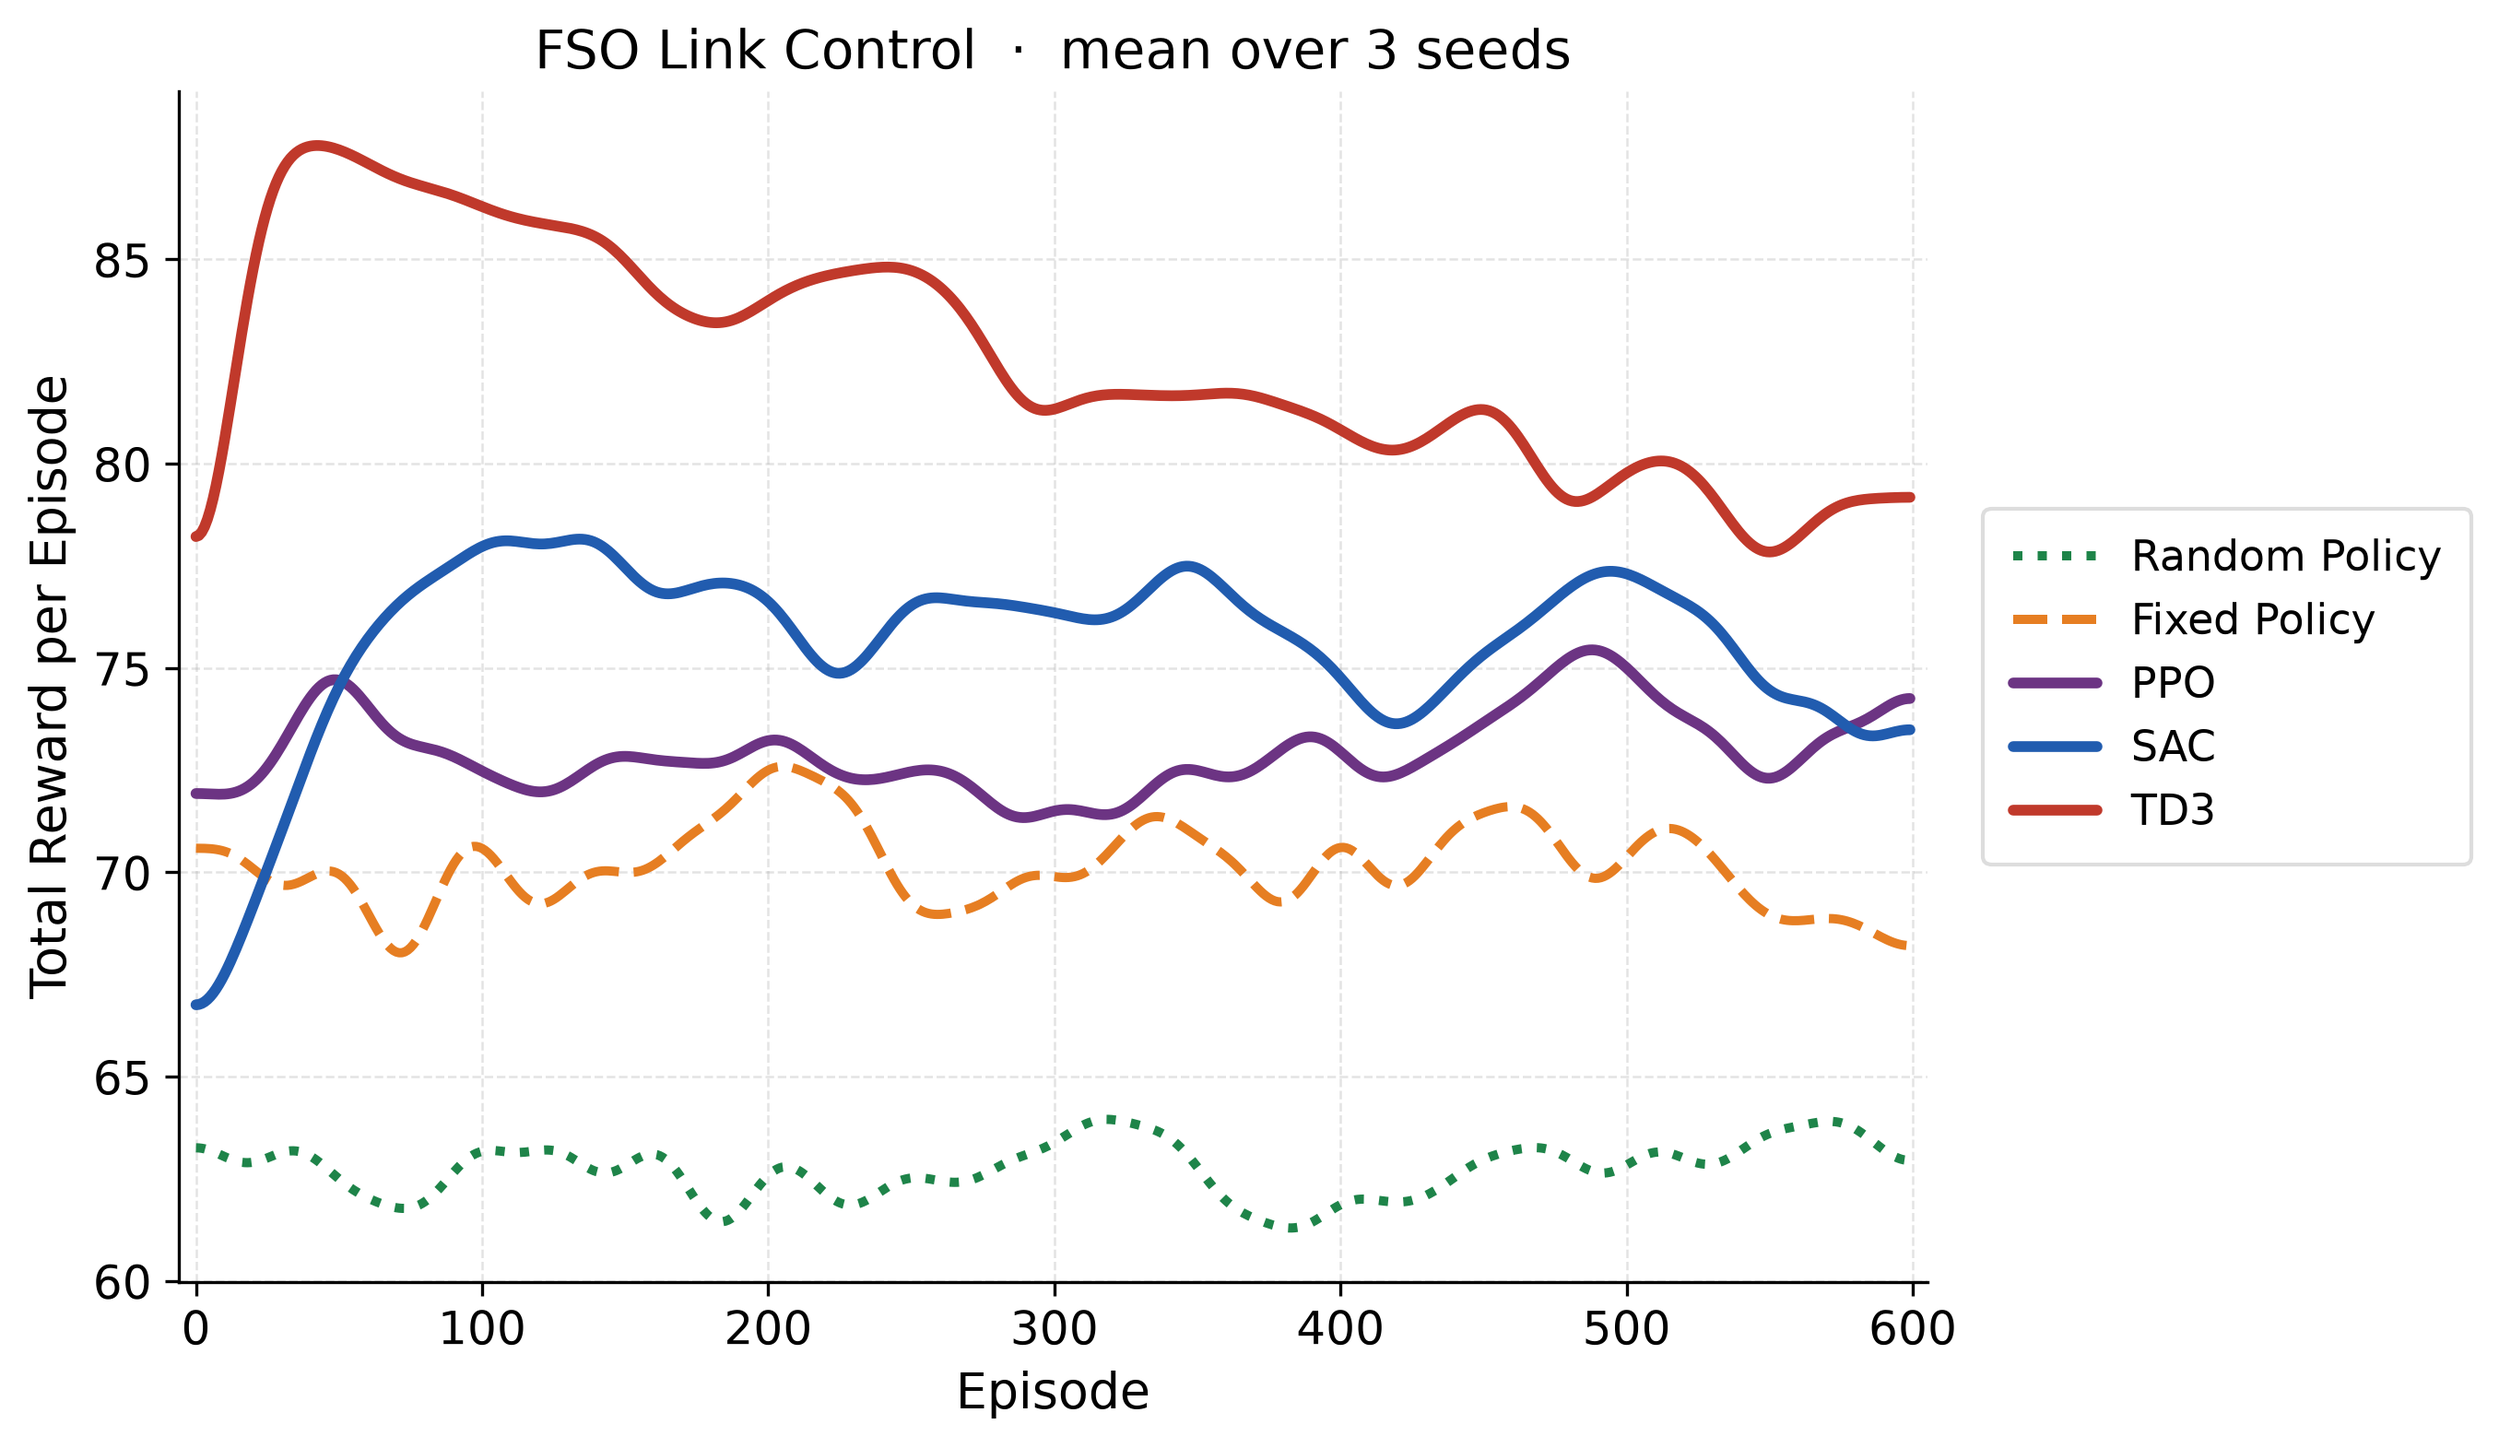
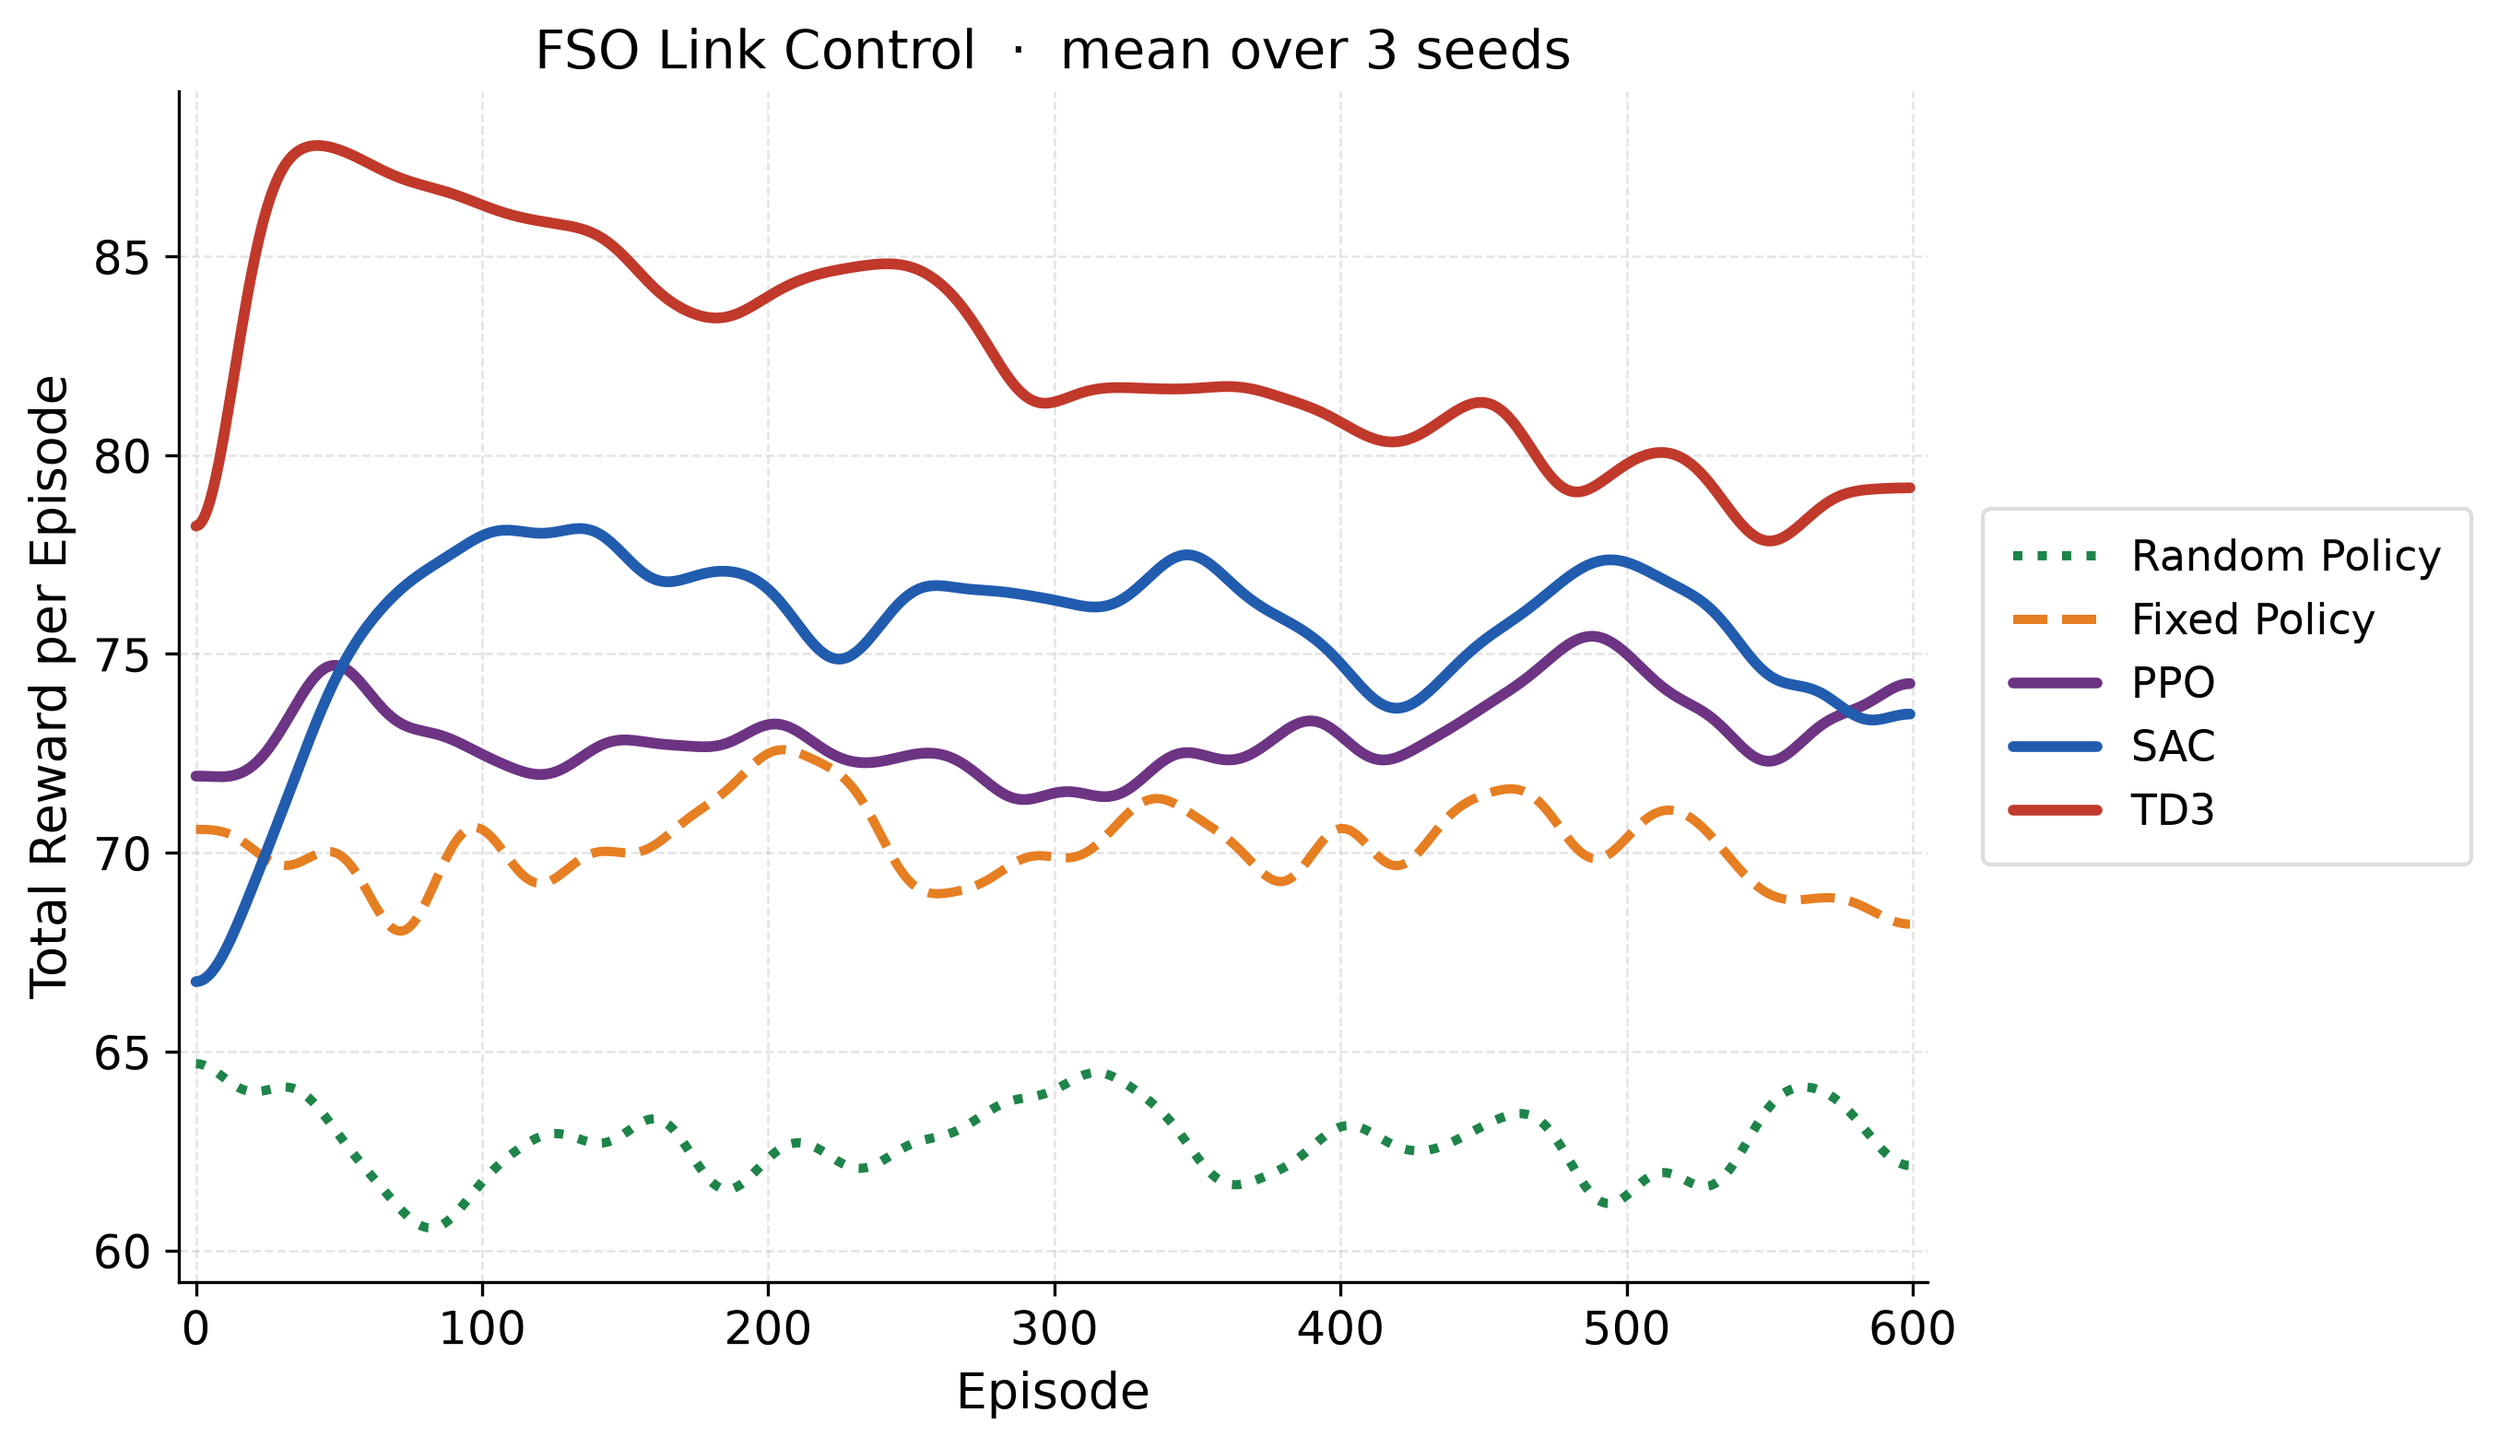
Record the repeated 600-episode comparison.
The learner curves match the previous log. The random baseline shifted slightly, so the documented last-50 mean is 63.19.

diff --git a/PAPER_REVISIONS.md b/PAPER_REVISIONS.md
@@ -6,7 +6,7 @@ The logged curves are training-episode returns, averaged over 3 seeds (100, 101,
 
 ## Abstract
 
-We study continuous control of a 3 km free-space optical link, in which the agent sets transmit power and launch beam waist while visibility and the refractive-index structure constant drift within each 80-step episode. SAC, PPO, and TD3 are trained for 600 episodes on three seeds with Stable-Baselines3. Reported values are training-episode returns, averaged over those seeds, not a held-out greedy test. Over the last 50 episodes the means are 78.76 for TD3, 73.64 for SAC, and 73.48 for PPO, compared with 68.31 for a fixed action of 10 dBm and 0.02 m and 63.29 for a uniform random policy. TD3 is the highest of the three learners. The margin over the fixed policy is modest, about ten return points, and SAC and PPO finish only a few points above that baseline.
+We study continuous control of a 3 km free-space optical link, in which the agent sets transmit power and launch beam waist while visibility and the refractive-index structure constant drift within each 80-step episode. SAC, PPO, and TD3 are trained for 600 episodes on three seeds with Stable-Baselines3. Reported values are training-episode returns, averaged over those seeds, not a held-out greedy test. Over the last 50 episodes the means are 78.76 for TD3, 73.64 for SAC, and 73.48 for PPO, compared with 68.31 for a fixed action of 10 dBm and 0.02 m and 63.19 for a uniform random policy. TD3 is the highest of the three learners. The margin over the fixed policy is modest, about ten return points, and SAC and PPO finish only a few points above that baseline.
 
 ## 3. Methods
 
@@ -44,7 +44,7 @@ Mean training-episode return over the last 50 episodes. Learning algorithms are 
 | SAC | 73.64 |
 | PPO | 73.48 |
 | Fixed (10 dBm, 0.02 m) | 68.31 |
-| Random | 63.29 |
+| Random | 63.19 |
 
 ## 4.1 Learning comparison
 
@@ -52,4 +52,4 @@ Table 1 is computed from the 600-episode log. All three learners finish above th
 
 ## Conclusion
 
-On the surviving 600-episode log, TD3 obtains the highest last-50 training return (78.76), followed by SAC (73.64) and PPO (73.48). All three exceed the fixed policy (68.31) and the random policy (63.29). The improvement over the fixed action is real but modest, and it is measured on training episodes averaged over three seeds. The result does not by itself establish a large or uniform advantage for any one algorithm.
+On the surviving 600-episode log, TD3 obtains the highest last-50 training return (78.76), followed by SAC (73.64) and PPO (73.48). All three exceed the fixed policy (68.31) and the random policy (63.19). The improvement over the fixed action is real but modest, and it is measured on training episodes averaged over three seeds. The result does not by itself establish a large or uniform advantage for any one algorithm.

diff --git a/METHODS_NOTES.md b/METHODS_NOTES.md
@@ -85,10 +85,10 @@ Last 50 episodes, mean over the stored runs:
 | SAC | 73.63630902 |
 | PPO | 73.48153086 |
 | Fixed | 68.3145986346532 |
-| Random | 63.29205688020732 |
+| Random | 63.19340231718413 |
 
 Mean over every stored episode: TD3 82.52695307, SAC 75.62813292888889,
-PPO 72.92858565166667, fixed 70.16166920216642, random 62.72875264550862.
+PPO 72.92858565166667, fixed 70.16166920216642, random 62.73962157034635.
 
 TD3 last-50 means by seed are 71.4156208, 83.31231168, and 81.56262292.
 The seed-averaged TD3 curve reaches 89.647805 at one episode index. That

diff --git a/README.md b/README.md
@@ -59,7 +59,7 @@ last 50 episodes, averaged over the stored seeds. No other summary was used.
 | SAC | 73.64 |
 | PPO | 73.48 |
 | Fixed `[10 dBm, 0.02 m]` | 68.31 |
-| Random | 63.29 |
+| Random | 63.19 |
 
 An earlier 400-episode array, in which the TD3 mean was about 87, was
 overwritten by this 600-episode file. It is not in the repository.
